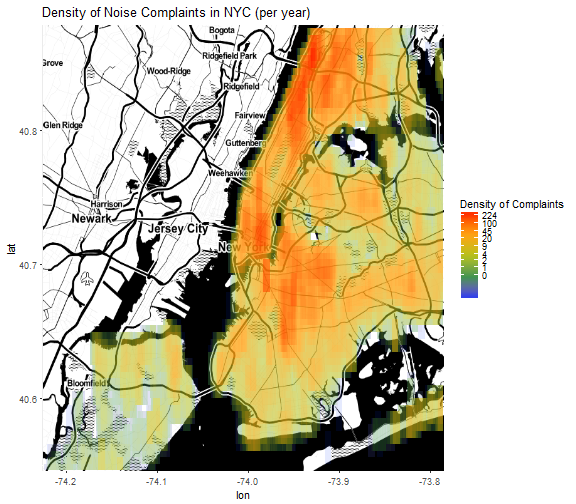
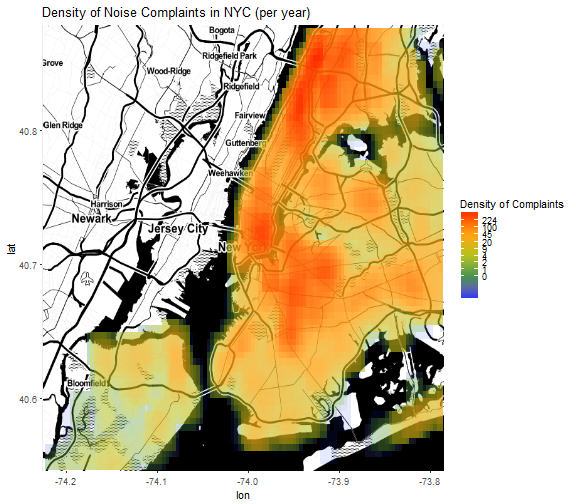
fixed scaling bug

Changed region(s): [[0.0625, 0.0298, 0.7812, 0.9524], [0.8125, 0.4167, 0.875, 0.5655]]

diff --git a/article.html b/article.html
@@ -96,8 +96,18 @@
 <p> Above I loaded some code I wrote to calculate density values for a map of new york. Below, I will use them as a rasterized overlay of a map using <code>geom_raster()</code>, which is much, much faster (~100 times) than using <code>geom_tile()</code> if it is possible to use it. Note that you must use <code>coord_cartesian()</code> after <code>ggmap()</code>, since rasterized graphics don't work with non-cartesian projections.</p>
 
 <div class="chunk" id="unnamed-chunk-2"><div class="rcode"><div class="source"><pre class="knitr r"><span class="hl std">default_density</span> <span class="hl kwb">=</span> <span class="hl kwd">createWeightedGrid</span><span class="hl std">(party_ready_realistic)</span>
-<span class="hl std">weighted_density</span> <span class="hl kwb">=</span> <span class="hl kwd">createWeightedGrid</span><span class="hl std">(party_ready_realistic,</span> <span class="hl kwc">variable</span><span class="hl std">=</span><span class="hl str">'duration'</span><span class="hl std">)</span>
-<span class="hl std">weighted_density</span><span class="hl opt">$</span><span class="hl std">normalized</span> <span class="hl kwb">=</span> <span class="hl std">weighted_density</span><span class="hl opt">$</span><span class="hl std">weight</span><span class="hl opt">/</span><span class="hl std">(</span><span class="hl num">1e-10</span> <span class="hl opt">+</span> <span class="hl std">default_density</span><span class="hl opt">$</span><span class="hl std">weight)</span>
+</pre></div>
+<div class="output"><pre class="knitr r">## [1] 0.7580717
+## [1] 0.003790359
+## [1] 0.005
+</pre></div>
+<div class="source"><pre class="knitr r"><span class="hl std">weighted_density</span> <span class="hl kwb">=</span> <span class="hl kwd">createWeightedGrid</span><span class="hl std">(party_ready_realistic,</span> <span class="hl kwc">variable</span><span class="hl std">=</span><span class="hl str">'duration'</span><span class="hl std">)</span>
+</pre></div>
+<div class="output"><pre class="knitr r">## [1] 0.7580717
+## [1] 0.003790359
+## [1] 0.005
+</pre></div>
+<div class="source"><pre class="knitr r"><span class="hl std">weighted_density</span><span class="hl opt">$</span><span class="hl std">normalized</span> <span class="hl kwb">=</span> <span class="hl std">weighted_density</span><span class="hl opt">$</span><span class="hl std">weight</span><span class="hl opt">/</span><span class="hl std">(</span><span class="hl num">1e-10</span> <span class="hl opt">+</span> <span class="hl std">default_density</span><span class="hl opt">$</span><span class="hl std">weight)</span>
 <span class="hl std">weighted_density</span><span class="hl opt">$</span><span class="hl std">default_density</span> <span class="hl kwb">=</span> <span class="hl std">default_density</span><span class="hl opt">$</span><span class="hl std">weight</span>
 </pre></div>
 </div></div>
@@ -120,44 +130,44 @@
   <tr>
    <td style="text-align:right;"> 1 </td>
    <td style="text-align:right;"> 1 </td>
-   <td style="text-align:right;"> -74.25266 </td>
+   <td style="text-align:right;"> -74.25507 </td>
    <td style="text-align:right;"> 40.49382 </td>
-   <td style="text-align:right;"> 0.0499707 </td>
+   <td style="text-align:right;"> 0.0499639 </td>
   </tr>
   <tr>
    <td style="text-align:right;"> 2 </td>
    <td style="text-align:right;"> 1 </td>
-   <td style="text-align:right;"> -74.25266 </td>
+   <td style="text-align:right;"> -74.25507 </td>
    <td style="text-align:right;"> 40.49882 </td>
-   <td style="text-align:right;"> 0.2462530 </td>
+   <td style="text-align:right;"> 0.3094801 </td>
   </tr>
   <tr>
    <td style="text-align:right;"> 3 </td>
    <td style="text-align:right;"> 1 </td>
-   <td style="text-align:right;"> -74.25266 </td>
+   <td style="text-align:right;"> -74.25507 </td>
    <td style="text-align:right;"> 40.50382 </td>
-   <td style="text-align:right;"> 3.6059958 </td>
+   <td style="text-align:right;"> 3.9012009 </td>
   </tr>
   <tr>
    <td style="text-align:right;"> 4 </td>
    <td style="text-align:right;"> 1 </td>
-   <td style="text-align:right;"> -74.25266 </td>
+   <td style="text-align:right;"> -74.25507 </td>
    <td style="text-align:right;"> 40.50882 </td>
-   <td style="text-align:right;"> 3.6156295 </td>
+   <td style="text-align:right;"> 3.9115544 </td>
   </tr>
   <tr>
    <td style="text-align:right;"> 5 </td>
    <td style="text-align:right;"> 1 </td>
-   <td style="text-align:right;"> -74.25266 </td>
+   <td style="text-align:right;"> -74.25507 </td>
    <td style="text-align:right;"> 40.51382 </td>
-   <td style="text-align:right;"> 3.5692839 </td>
+   <td style="text-align:right;"> 3.8654261 </td>
   </tr>
   <tr>
    <td style="text-align:right;"> 6 </td>
    <td style="text-align:right;"> 1 </td>
-   <td style="text-align:right;"> -74.25266 </td>
+   <td style="text-align:right;"> -74.25507 </td>
    <td style="text-align:right;"> 40.51882 </td>
-   <td style="text-align:right;"> 3.5667252 </td>
+   <td style="text-align:right;"> 3.8625678 </td>
   </tr>
 </tbody>
 </table><div class="source"><pre class="knitr r"><span class="hl kwd">cat</span><span class="hl std">(</span><span class="hl kwd">kable</span><span class="hl std">(</span><span class="hl kwd">head</span><span class="hl std">(weighted_density)))</span>
@@ -178,56 +188,56 @@
   <tr>
    <td style="text-align:right;"> 1 </td>
    <td style="text-align:right;"> 1 </td>
-   <td style="text-align:right;"> -74.25266 </td>
+   <td style="text-align:right;"> -74.25507 </td>
    <td style="text-align:right;"> 40.49382 </td>
-   <td style="text-align:right;"> 9.244575 </td>
+   <td style="text-align:right;"> 9.243324 </td>
    <td style="text-align:right;"> 185.0000 </td>
-   <td style="text-align:right;"> 0.0499707 </td>
+   <td style="text-align:right;"> 0.0499639 </td>
   </tr>
   <tr>
    <td style="text-align:right;"> 2 </td>
    <td style="text-align:right;"> 1 </td>
-   <td style="text-align:right;"> -74.25266 </td>
+   <td style="text-align:right;"> -74.25507 </td>
    <td style="text-align:right;"> 40.49882 </td>
-   <td style="text-align:right;"> 40.661230 </td>
-   <td style="text-align:right;"> 165.1198 </td>
-   <td style="text-align:right;"> 0.2462530 </td>
+   <td style="text-align:right;"> 53.871410 </td>
+   <td style="text-align:right;"> 174.0707 </td>
+   <td style="text-align:right;"> 0.3094801 </td>
   </tr>
   <tr>
    <td style="text-align:right;"> 3 </td>
    <td style="text-align:right;"> 1 </td>
-   <td style="text-align:right;"> -74.25266 </td>
+   <td style="text-align:right;"> -74.25507 </td>
    <td style="text-align:right;"> 40.50382 </td>
-   <td style="text-align:right;"> 383.735338 </td>
-   <td style="text-align:right;"> 106.4159 </td>
-   <td style="text-align:right;"> 3.6059958 </td>
+   <td style="text-align:right;"> 401.538563 </td>
+   <td style="text-align:right;"> 102.9269 </td>
+   <td style="text-align:right;"> 3.9012009 </td>
   </tr>
   <tr>
    <td style="text-align:right;"> 4 </td>
    <td style="text-align:right;"> 1 </td>
-   <td style="text-align:right;"> -74.25266 </td>
+   <td style="text-align:right;"> -74.25507 </td>
    <td style="text-align:right;"> 40.50882 </td>
-   <td style="text-align:right;"> 384.725184 </td>
-   <td style="text-align:right;"> 106.4061 </td>
-   <td style="text-align:right;"> 3.6156295 </td>
+   <td style="text-align:right;"> 402.550277 </td>
+   <td style="text-align:right;"> 102.9131 </td>
+   <td style="text-align:right;"> 3.9115544 </td>
   </tr>
   <tr>
    <td style="text-align:right;"> 5 </td>
    <td style="text-align:right;"> 1 </td>
-   <td style="text-align:right;"> -74.25266 </td>
+   <td style="text-align:right;"> -74.25507 </td>
    <td style="text-align:right;"> 40.51382 </td>
-   <td style="text-align:right;"> 375.847734 </td>
-   <td style="text-align:right;"> 105.3006 </td>
-   <td style="text-align:right;"> 3.5692839 </td>
+   <td style="text-align:right;"> 393.665244 </td>
+   <td style="text-align:right;"> 101.8427 </td>
+   <td style="text-align:right;"> 3.8654261 </td>
   </tr>
   <tr>
    <td style="text-align:right;"> 6 </td>
    <td style="text-align:right;"> 1 </td>
-   <td style="text-align:right;"> -74.25266 </td>
+   <td style="text-align:right;"> -74.25507 </td>
    <td style="text-align:right;"> 40.51882 </td>
-   <td style="text-align:right;"> 375.561314 </td>
-   <td style="text-align:right;"> 105.2958 </td>
-   <td style="text-align:right;"> 3.5667252 </td>
+   <td style="text-align:right;"> 393.339337 </td>
+   <td style="text-align:right;"> 101.8336 </td>
+   <td style="text-align:right;"> 3.8625678 </td>
   </tr>
 </tbody>
 </table>
@@ -257,7 +267,7 @@
   <span class="hl kwd">ggtitle</span><span class="hl std">(</span><span class="hl str">'Density of Noise Complaints in NYC (per year)'</span><span class="hl std">)</span> <span class="hl opt">+</span>
   <span class="hl kwd">guides</span><span class="hl std">(</span><span class="hl kwc">alpha</span><span class="hl std">=</span><span class="hl str">'none'</span><span class="hl std">)</span>
 </pre></div>
-<div class="warning"><pre class="knitr r">## Warning: Removed 2857 rows containing missing values (geom_raster).
+<div class="warning"><pre class="knitr r">## Warning: Removed 1243 rows containing missing values (geom_raster).
 </pre></div>
 </div><div class="rimage default"><img src="figure/unnamed-chunk-5-1.png" title="plot of chunk unnamed-chunk-5" alt="plot of chunk unnamed-chunk-5" class="plot" /></div></div>
 
@@ -274,7 +284,7 @@
   <span class="hl kwd">ggtitle</span><span class="hl std">(</span><span class="hl str">'Average Response Time to Noise Complaints in NYC'</span><span class="hl std">)</span> <span class="hl opt">+</span>
   <span class="hl kwd">guides</span><span class="hl std">(</span><span class="hl kwc">alpha</span><span class="hl std">=</span><span class="hl str">'none'</span><span class="hl std">)</span>
 </pre></div>
-<div class="warning"><pre class="knitr r">## Warning: Removed 2857 rows containing missing values (geom_raster).
+<div class="warning"><pre class="knitr r">## Warning: Removed 1243 rows containing missing values (geom_raster).
 </pre></div>
 </div><div class="rimage default"><img src="figure/unnamed-chunk-6-1.png" title="plot of chunk unnamed-chunk-6" alt="plot of chunk unnamed-chunk-6" class="plot" /></div></div>
 
@@ -310,7 +320,7 @@
   <span class="hl std">latitude</span> <span class="hl kwb">=</span> <span class="hl std">data</span><span class="hl opt">$</span><span class="hl std">latitude</span>
   <span class="hl std">med_lon</span> <span class="hl kwb">=</span> <span class="hl kwd">mean</span><span class="hl std">(</span><span class="hl kwd">range</span><span class="hl std">(longitude))</span>
   <span class="hl std">med_lat</span> <span class="hl kwb">=</span> <span class="hl kwd">mean</span><span class="hl std">(</span><span class="hl kwd">range</span><span class="hl std">(latitude))</span>
-  <span class="hl std">lon_scale_factor</span> <span class="hl kwb">=</span> <span class="hl kwd">cos</span><span class="hl std">(med_lon</span> <span class="hl opt">*</span> <span class="hl std">pi</span><span class="hl opt">/</span><span class="hl num">180</span><span class="hl std">)</span>
+  <span class="hl std">lon_scale_factor</span> <span class="hl kwb">=</span> <span class="hl kwd">cos</span><span class="hl std">(med_lat</span> <span class="hl opt">*</span> <span class="hl std">pi</span><span class="hl opt">/</span><span class="hl num">180</span><span class="hl std">)</span>
   <span class="hl std">padding_lon</span> <span class="hl kwb">=</span> <span class="hl std">lon_scale_factor</span> <span class="hl opt">*</span> <span class="hl std">padding_lat</span>
   <span class="hl std">range_lon</span> <span class="hl kwb">=</span> <span class="hl kwd">range</span><span class="hl std">(longitude,</span> <span class="hl kwc">na.rm</span><span class="hl std">=</span><span class="hl num">TRUE</span><span class="hl std">)</span> <span class="hl opt">+</span> <span class="hl kwd">c</span><span class="hl std">(</span><span class="hl opt">-</span><span class="hl num">1</span><span class="hl std">,</span> <span class="hl num">1</span><span class="hl std">)</span> <span class="hl opt">*</span> <span class="hl std">padding_lon</span>
   <span class="hl std">range_lat</span> <span class="hl kwb">=</span> <span class="hl kwd">range</span><span class="hl std">(latitude,</span> <span class="hl kwc">na.rm</span><span class="hl std">=</span><span class="hl num">TRUE</span><span class="hl std">)</span> <span class="hl opt">+</span> <span class="hl kwd">c</span><span class="hl std">(</span><span class="hl opt">-</span><span class="hl num">1</span><span class="hl std">,</span> <span class="hl num">1</span><span class="hl std">)</span> <span class="hl opt">*</span> <span class="hl std">padding_lat</span>
